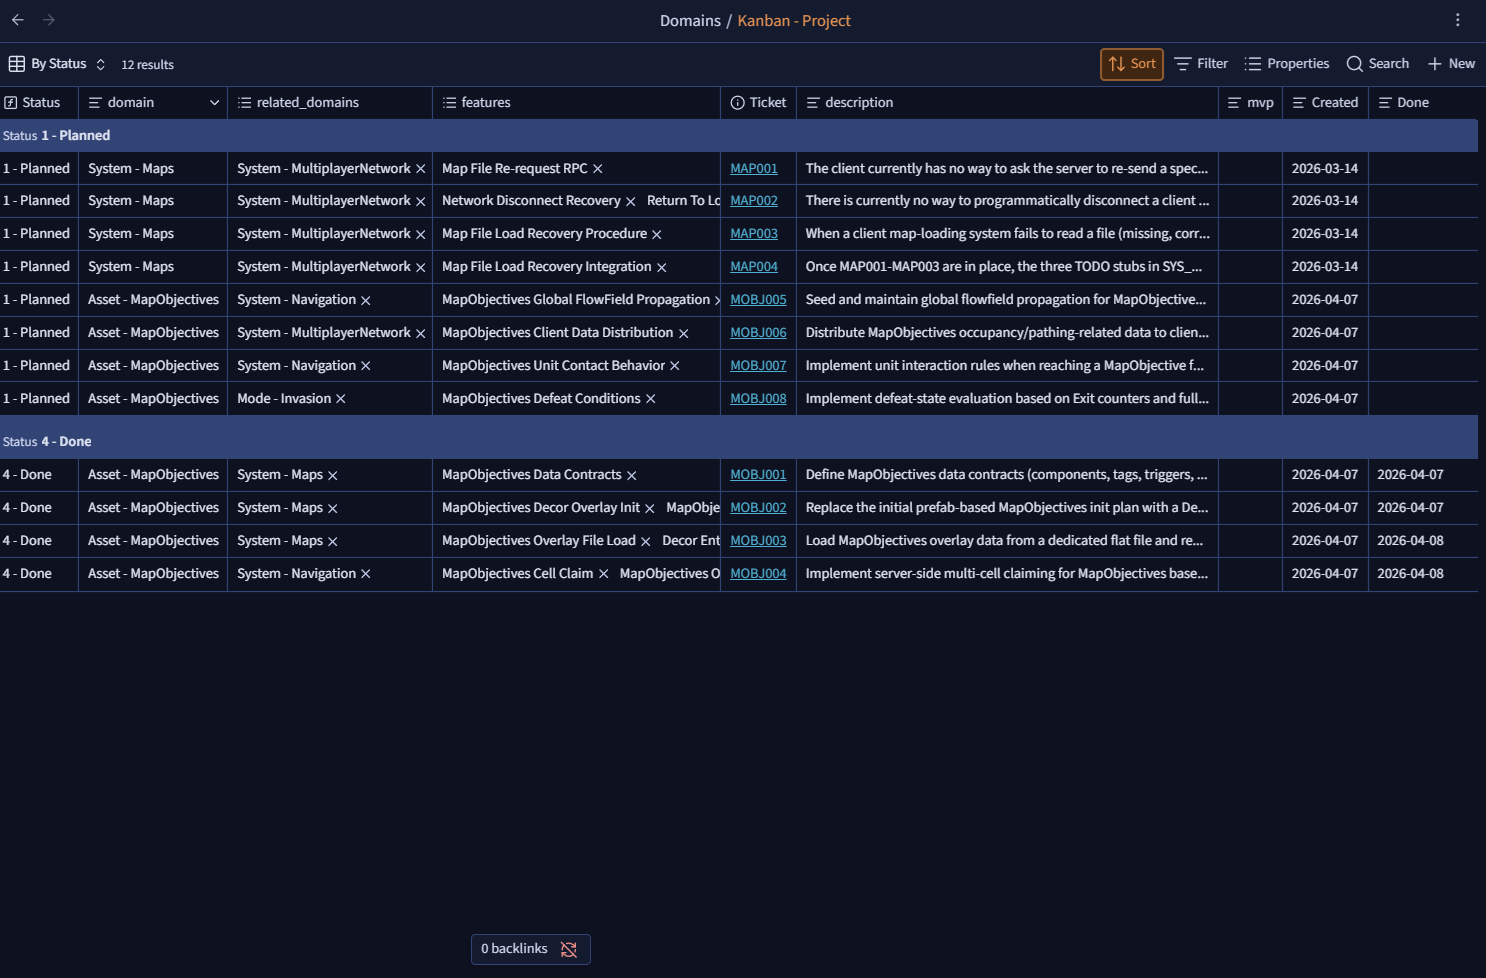
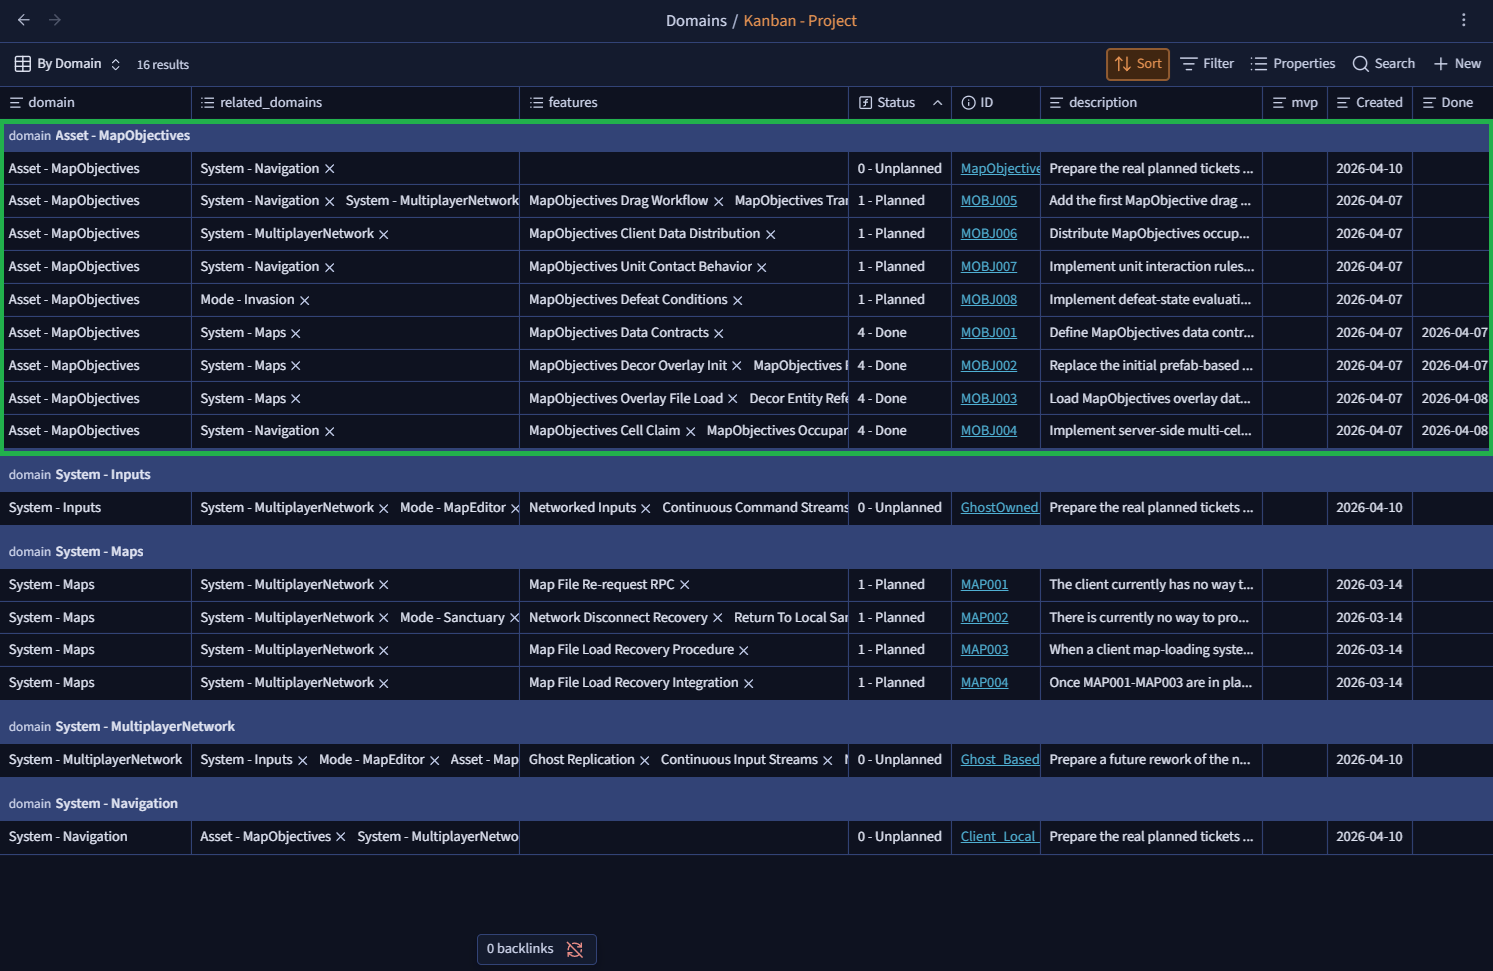
Quartz sync: Apr 11, 2026, 1:19 PM

diff --git a/content/fr/Outils/Obsidian.md b/content/fr/Outils/Obsidian.md
@@ -133,11 +133,17 @@ Mais comme on a quand même besoin d'un Kanban global pour le suivi d'un MVP par
 
 ----
 
-Côté IA :
-- `CLAUDE.md` et `AGENTS.md` seront quasi vierges et redirigeront directement vers ces <span style="color: steelblue;">2 points d'entrée</span>
-- il en ira de même pour leurs skills qui pointent directement vers des fichiers dans /Generic
+**Setup IA**
 
+Comme je l'ai déjà mentioné, le stetup se veut le plus **agnostique** et **centralisé** que possible. L'idée est donc que les fichiers des IA ne portent aucune responsabilité et pointent simplement vers des <span style="color: steelblue;">points d'entrée</span> dans **Obsidian** et vous n'aurez ensuite plus jamais besoin de les retoucher.
 
+Exemple pour mon setup, 1 `CLAUDE.md` et 2 fichiers `SKILL.md` minimalistes :
+
+<img src="/static/png/Obsidian/AI_MDs.png" alt="Kanban Interne" width="100%"/>  
+
+*J'ai l'exact même setup pour Codex avec un `AGENTS.md` : j'ai donc simplement à changer l'information dans un <span style="color: steelblue;">point d'entrée</span> et mes 2 IAs seront alignées, pas besoin de dupliquer l'info dans chaque fichier de config d'IA !*
+
+A quoi me servent
 
 <script src="https://giscus.app/client.js"
         data-repo="Keilthar/devlog"
